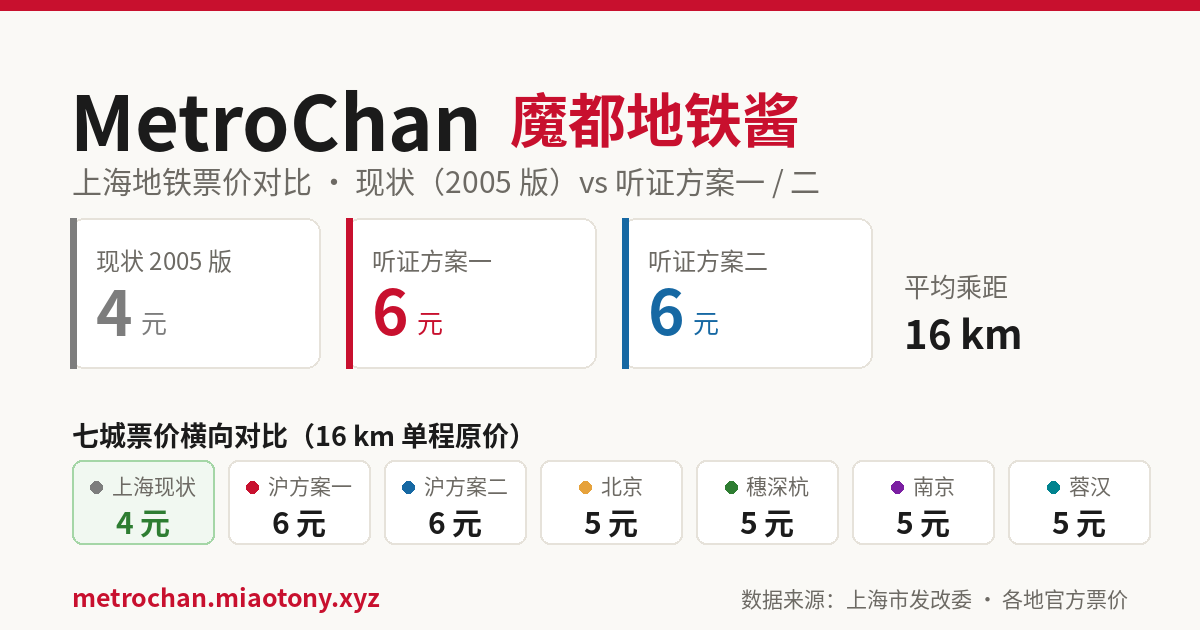
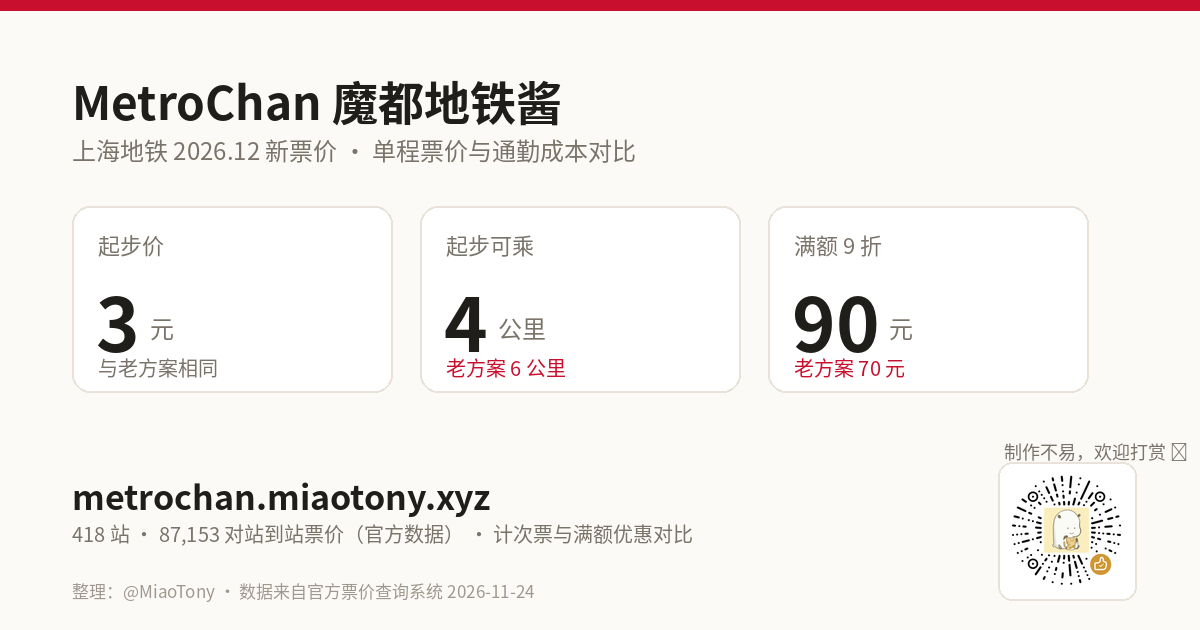
docs: 重写 README 并对齐新方案，重绘 og 分享图（含打赏二维码）

diff --git a/README.md b/README.md
@@ -1,89 +1,78 @@
 # MetroChan 魔都地铁酱
 
-上海地铁票价对比工具 · 现状（2005 版）vs 听证方案一 vs 听证方案二
+上海地铁票价对比工具 · 老方案（2005 版）vs 新方案（2026-12-01 起执行），附听证方案一、二与八城横向对比
 
-![MetroChan 魔都地铁酱 — 上海地铁票价对比：现状 vs 听证方案，以及北上广深杭宁蓉汉七城横向对比](og.png)
+![MetroChan 魔都地铁酱 — 上海地铁 2026.12 新票价：老方案 vs 新方案，站到站票价、通勤成本与八城横向对比](og.png)
 
 🚇 **在线访问：<https://metrochan.miaotony.xyz/>**
 
-单文件静态页面（`index.html`），无任何外部依赖与网络请求，下载后双击打开也能用。
+单文件静态页面（`index.html`），无构建依赖，下载后双击打开也能用。
 
 ## 功能
 
-**按乘距对比**（默认页）
-- 乘距滑块（1-135km）+ 常用乘距快捷按钮，也可直接在图表上按住拖动选距离
-- 三方案票价卡实时对比，全乘距票价阶梯图（SVG），十字线标注当前乘距
-- 月度通勤成本估算：单程票（含满额 9 折）与 45/60/90 次计次票对比
+**站到站**（`#s2s` 可直达）
+- 起点 / 终点按「线路 + 站点」选择，线路带官方标识色，站点面板可搜汉字 / 全拼 / 首字母（如 `xjh` → 徐家汇），支持跨线搜索
+- 票价与换乘路径取自**官方票价查询系统** 2026-11-24 的全量数据（418 站、87,153 个站对），官方未收录的站对按站间距推算并提示
+- 官方推荐路径多方案切换，配可交互线路图：高亮当次路径，点按站点看站名
+- 月度通勤成本：次数滑块（1-120），单程票（含满额 9 折）、计次票各档，以及「计次票 + 单程票」组合价自动比价
+- 一键复制带参数的分享链接（可选携带起终点与每月次数），打开即还原
 
-**站到站对比**（第二个标签页，`#s2s` 可直达）
-- 起终点按「线路 + 站点」二级选择，站点按线内实际站序排列
-- 站名搜索：支持汉字 / 全拼 / 首字母（如 `xjh` → 徐家汇），键盘 ↑↓ + 回车快速选择
-- 按线网**最短路径里程**计价（与官方计价规则一致，换乘不计里程），显示计价路径、跨线分段、三方案票价
-- 月度通勤成本估算随站对里程联动
-- 常用站对快捷按钮，含全网最远站对滴水湖 → 西岑（123.52km，45 站 6 次跨线）
-- 首次进入弹窗提示估算差异，可勾选「不再提示」
+**按乘距**（默认页，`#dist`）
+- 乘距滑块（1-135km）+ 快捷档（含滴水湖 → 西岑 124km 全网最远），也可在图上拖动选距离
+- 全乘距票价阶梯图，默认只画老方案与新方案，勾选后叠加听证方案一、二
+- 月度通勤成本估算，与站到站同一套计次票组合逻辑
 
-**城市对比**（第三个标签页，`#cities` 可直达）
-- 七城票价曲线：上海现状/方案一/方案二 + 北京 + 广深杭 + 南京 + 成武（计价公式相同的城市合并为一条线）
-- 滑块 / 快捷按钮 / 图表拖动选乘距，七城票价实时刷新，最低价高亮
-- 图例可点击显示或隐藏任意曲线，便于对比重叠线段
-- **票价里程区间对照**：每档票价（2-20 元）在各城市能坐多远
-- **典型乘距票价对照**：5/10/16/25/40/60/80/124km 各城市票价（124km 对应全网最远站对滴水湖 → 西岑 123.52km）
-- 八城计价规则卡片：官方口径的分段档位、特例与月累计优惠政策，附官方来源链接
+**城市对比**（`#cities`）
+- 八城票价曲线与图例开关、票价里程区间对照、典型乘距票价对照、各城计价规则卡片
+
+**改版详情**（`#change`）
+- 一页看完：关键数字、变与不变、票种与优惠（计次票、一日/三日票、随申行联程日票），以及「同样票价最远能坐多远」对照表
 
 ## 数据源
 
-- **票价规则**：[《优化上海市轨道交通票价机制听证方案》](https://fgw.sh.gov.cn/cmsres/24/2480505af8bb4b50bfa75092e12fe6af/535b6d58b1fd807bb0b9a2b92ecd078e.wps)（上海市发改委，2026-08）
-- **站间距**：中文维基百科各线路词条「车站列表」（源自官方设计/环评资料，米级精度）
+- **票价规则**：[《关于优化上海市轨道交通票价机制的复函》](https://fgw.sh.gov.cn/fgw_jjjctk/20261123/f57b63885c514c829ee269ed589ab2b9.html)（沪发改价调〔2026〕58号，2026-11-23）；听证方案见[《优化上海市轨道交通票价机制听证方案》](https://fgw.sh.gov.cn/cmsres/24/2480505af8bb4b50bfa75092e12fe6af/535b6d58b1fd807bb0b9a2b92ecd078e.wps)（2026-08）
+- **站到站票价与换乘路径**：[官方票价查询系统](https://metroplatform.tenchii.com/web/fare-query/h5/index)，2026-11-24 全量抓取
+- **站间距**：中文维基百科各线路词条「车站列表」（源自官方设计 / 环评资料，米级精度）
 - **线路标识色**：维基百科 `{{rcr|上海地铁|N}}` 模板（官方标识色）
-- **其他城市票价规则**：各地政府官网 / 地铁公司官方页面（北京、广州、深圳、杭州、南京、成都、武汉），逐条附来源链接于页面卡片内
-- **覆盖**：1-18 号线 + 浦江线，419 站，88 个换乘站，含全部支线段（5 号线东川路—闵行开发区段、10 号线龙溪路—航中路段、11 号线花桥—嘉定新城段）；不含磁浮线、金山铁路、市域机场线
+- **线路图站点坐标**：上海地铁官方地图接口
+- **其他城市票价规则**：各地政府官网 / 地铁公司官方页面，逐条附来源链接于页面卡片内
+- **覆盖**：1-18 号线 + 浦江线，418 站，含全部支线段；不含磁浮线、金山铁路、市域机场线
 
 ## 票价公式（基准价）
 
-- **现状（2005 版）**：0-6km 3 元，之后每 10km +1 元
-- **方案一**：0-4km 3 元，之后按 4/4/4/7/7/7/10/10/10km 每档 +1 元，67km 以上每 15km +1 元
-- **方案二**：0-6km 4 元，之后按 6/8/8/10/10/12/12km 每档 +1 元，72km 以上每 14km +1 元
+- **老方案（2005 版）**：起乘价 3 元、0-6 公里，之后每 10 公里加 1 元
+- **新方案（2026-12-01 起执行）**：起乘价 3 元、0-4 公里，之后按 4/4/4/7/7/10/10 公里每档加 1 元，50 公里以上每 15 公里加 1 元
+- **听证方案一（未采纳）**：起乘价 3 元、0-4 公里，之后按 4/4/4/7/7/7/10/10/10 公里每档加 1 元，67 公里以上每 15 公里加 1 元
+- **听证方案二（未采纳）**：起乘价 4 元、0-6 公里，之后按 6/8/8/10/10/12/12 公里每档加 1 元，72 公里以上每 14 公里加 1 元
 
-满额 9 折：现状为月累计满 **70 元**后 9 折；两个新方案均为满 **100 元**后 9 折。计次票（45 次 210 元 / 60 次 270 元 / 90 次 390 元，30 天有效）为新方案配套，与单程票价互斥。
+**优惠**：满额 9 折门槛老方案 70 元、新方案 90 元（听证方案 100 元）；计次票 35/45/60/90 次，190/210/270/390 元，30 个自然日内有效、限本人实名，与满额优惠互斥；一日票 24 元、三日票 60 元；随申行联程日票 26/62/112 元（一日/三日/七日，地铁 + 公交 + 轮渡）。
 
 ## 项目结构
 
 ```
 index.html              最终页面（数据内嵌，可直接部署 / GitHub Pages 托管）
-template.html           页面模板（__METRO_DATA__ 占位符）
+data/metro_data.json    线网数据：站点/边(站间距)/线路站序/拼音索引
+data/stations.json      官方票价库索引（418 站）
+data/paths/*.json       官方站到站票价与路径分片（按起点站懒加载）
+data/map_xy.json        站点坐标（线路图用）
+assets/wechat-reward.png 打赏二维码
 favicon.svg             站点图标
 og.png                  社交分享预览图（1200x630）
-data/metro_data.json    线网数据：站点/边(站间距)/线路站序/拼音索引
-scripts/
-  gen.py                构建：template + data -> index.html
-  parse_wiki.py         维基词条车站列表解析
-  build_exact.py        数据管线：解析->支线处理->建图->验证->输出 JSON
+scripts/                数据抓取与构建脚本
 ```
-
-## 构建
-
-```bash
-python3 scripts/gen.py   # template.html + data/metro_data.json -> index.html
-```
-
-修改页面只需编辑 `template.html` 后重新构建。更新线网数据需先抓取各线路维基词条（`action=parse&prop=wikitext`）后运行 `build_exact.py`（依赖 `pypinyin` 生成拼音索引）。
 
 ## 计价说明
 
-站到站里程按**线网最短路径**计算（官方单程票计价规则）：即使实际乘坐更长的直达路径，闸机也按最短路径里程收费。页面展示的路径是计价路径，**不是乘车换乘建议**。
+站到站里程按**线网最短路径**计算（官方单程票计价规则），换乘不计里程。页面展示的是计价路径，不是乘车换乘建议。
 
-上海地铁真实的计价里程算法并未完整公开（可以说是「沪国机密」），本页估算结果可能与闸机实际扣费存在差异，一切以官方实际计价为准。
-
-## 技术要点
-
-- 支线解析：维基车站列表中「里程重置 = 新段」，双里程标注站（如嘉定新城 `7750(18327)`）的括号值为支线基准里程，用于计算支线接点边长
-- 4 号线环线：用官方全长减末站累计里程补闭合段
-- 路径计算：Dijkstra，边权 = 官方站间距（米），换乘站同名合并、换乘边零里程
-- 纯前端实现，站名拼音索引预生成内嵌，无运行时依赖
+站到站票价与换乘路径取自官方数据；与官方查询结果存在差异时，**以官方为准**。发现问题或有建议，欢迎[提 Issue](https://github.com/miaotony/MetroChan/issues)。
 
 ## 声明
 
-本项目为个人自行整理的对比工具，**非官方页面**，数据仅供参考，实际票价以上海地铁官方计价为准。
+本项目为个人自行整理的对比工具，**非官方页面**。数据仅供参考。
 
 © 2026 [MiaoTony](https://miaotony.xyz) · All rights reserved.
+
+---
+
+制作不易，如果这个页面对你有帮助，欢迎 Star ⭐ 或扫码打赏 🙏
